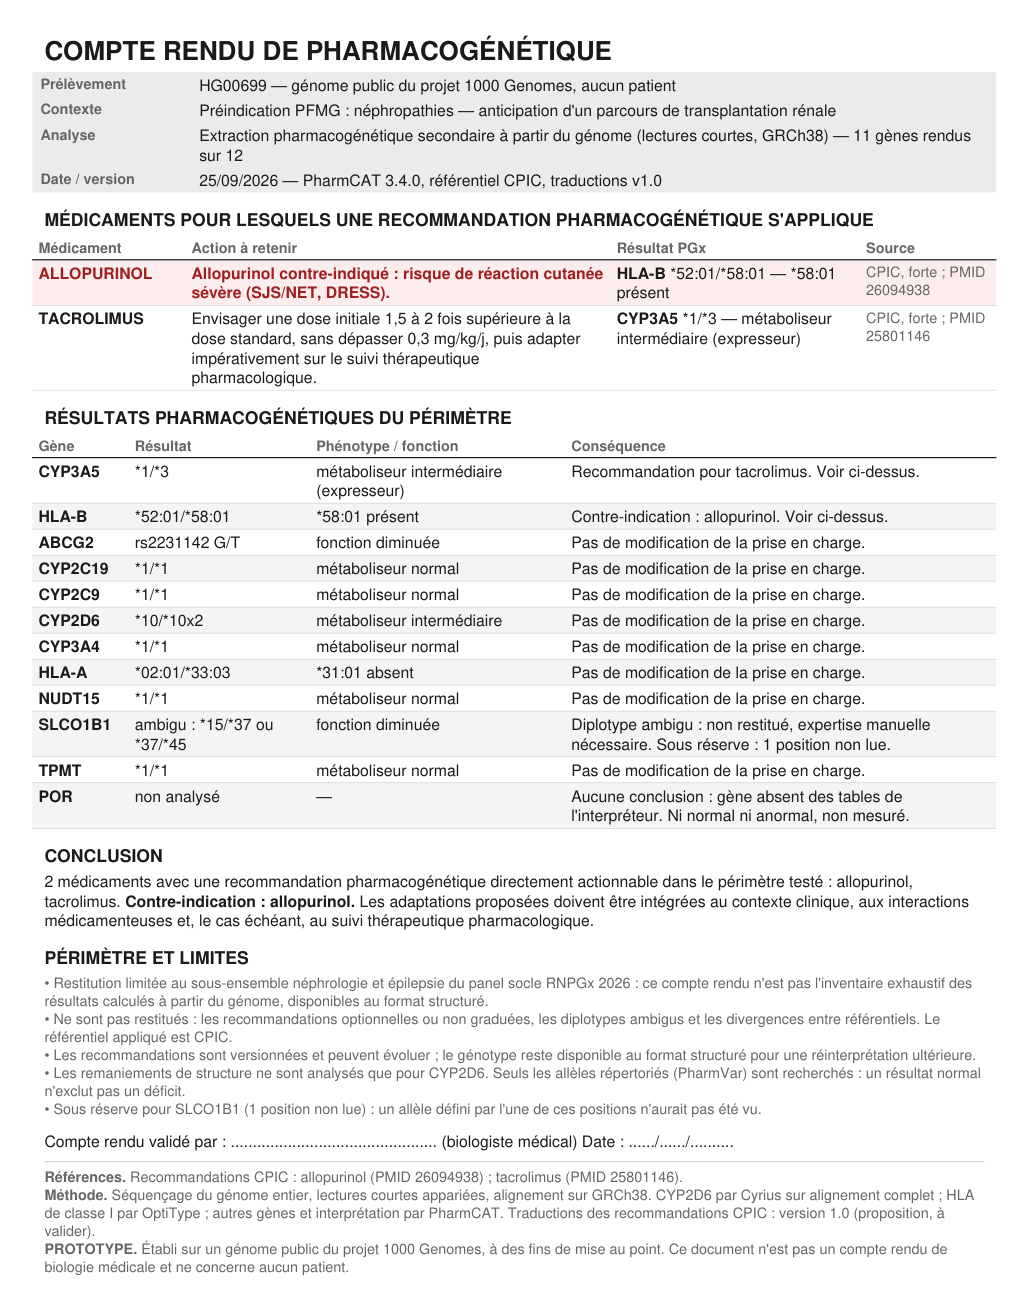
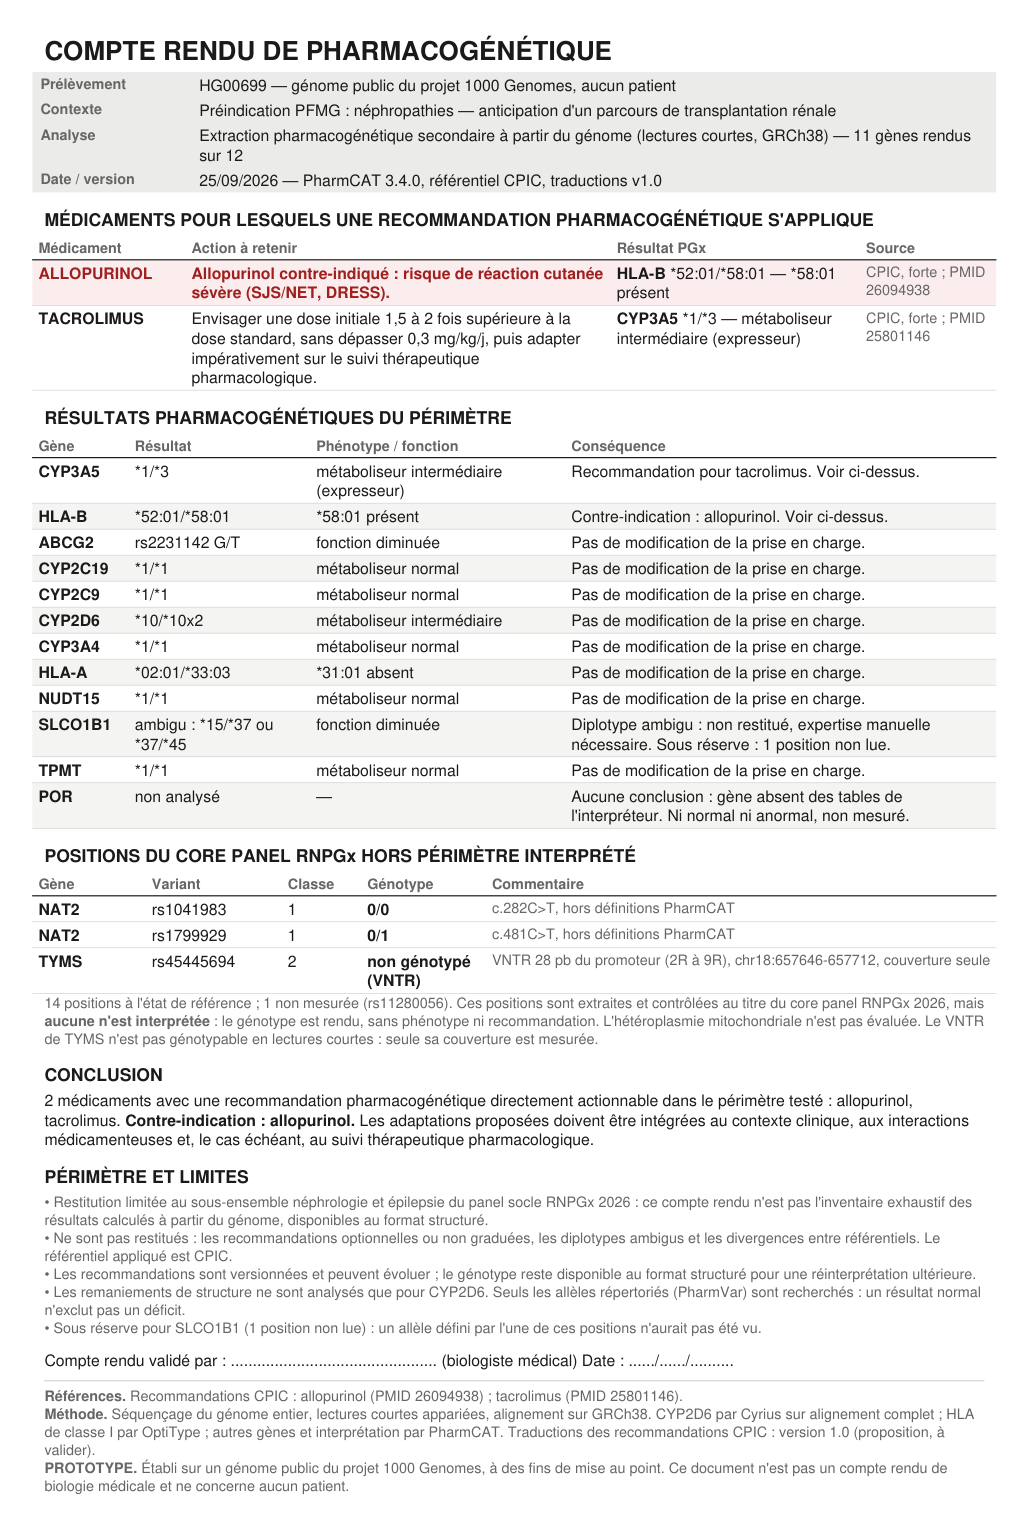
Perimetre : 18 positions de classe 1 et 2 du core panel RNPGx
Couverture classe 1 : 59/68 -> 68/68 ; classe 2 : 52/61 -> 61/61.
Neuf genes concernes : BCHE, MT-RNR1, NAT2, VKORC1, cluster CYP2C, GGCX,
MTHFR, POR, TYMS.

- ressources/rnpgx_complement.{vcf,bed} + outils/construire_complement_rnpgx.py
  (genere, reproductible). Coordonnees GRCh38 via Ensembl, chaque allele de
  reference verifie contre GRCh38 (bcftools norm --check-ref)
- mesurees au meme titre que les positions PharmCAT (profondeur, qualite,
  filtre) mais suivies a part : elles n entrent pas dans le statut d un gene et
  ne sont jamais masquees dans le VCF remis a l interpreteur
- aucune n est interpretee : genotype rendu, sans phenotype ni recommandation
- VNTR de TYMS en couverture seule, jamais genotype en lectures courtes ;
  heteroplasmie mitochondriale declaree non evaluee
- BED de tranche filtre sur les contigs presents : un chrM absent donne une
  position « profondeur inconnue », jamais un faux « reference »
- .gitignore : exception elargie au dossier ressources/

Non-regression verifiee sur les 243 genomes du banc : perimetre des 12 genes,
statut de chaque gene et VCF de l interpreteur strictement identiques.

Changed region(s): [[0.0311, 0.0, 0.964, 0.9778], [0.8397, 0.0611, 0.9329, 0.1222]]

diff --git a/bin/qc_perimetre.py b/bin/qc_perimetre.py
@@ -32,17 +32,32 @@ Sorties :
 import argparse, collections, csv, gzip, json, os, sys
 
 
-def lire_positions(chemin):
+def lire_positions(chemin, complement=False):
+    """Positions diagnostiques attendues, depuis un VCF de positions.
+
+    Le fichier complementaire du core panel RNPGx porte en plus PXCLASSE (1 ou 2),
+    PXTYPE (snv, indel, vntr), PXINTERP et PXNOTE. Un VNTR n'est pas genotypable en
+    lectures courtes : sa couverture est mesuree, son genotype n'est pas juge.
+    """
     attendu = {}
     with open(chemin, encoding="utf-8") as fh:
         for l in fh:
             if l.startswith("#"):
                 continue
             c = l.rstrip("\n").split("\t")
-            genes = [x[3:] for x in c[7].split(";") if x.startswith("PX=")]
+            info = {}
+            for x in c[7].split(";"):
+                k, _, v = x.partition("=")
+                info[k] = v
             attendu[(c[0], int(c[1]))] = {
                 "rsid": c[2], "ref": c[3], "alt": c[4],
-                "genes": genes[0].split(",") if genes else [],
+                "genes": info.get("PX", "").split(",") if info.get("PX") else [],
+                "complement": complement,
+                "classe": entier(info.get("PXCLASSE")),
+                "type": info.get("PXTYPE", "snv"),
+                "interpreteur": info.get("PXINTERP", "pharmcat"),
+                "note": info.get("PXNOTE", "").replace("_", " "),
+                "fin": entier(info.get("END")) or int(c[1]) + len(c[3]) - 1,
             }
     return attendu
 
@@ -150,6 +165,8 @@ def main():
     p.add_argument("--vcf", required=True)
     p.add_argument("--profondeur", default=None)
     p.add_argument("--positions", required=True)
+    p.add_argument("--positions-complement", default=None, dest="complement",
+                   help="VCF des positions RNPGx absentes des definitions PharmCAT")
     p.add_argument("--sortie", required=True)
     p.add_argument("--gq", type=int, default=20)
     p.add_argument("--profondeur-min", type=int, default=10, dest="prof_min")
@@ -165,6 +182,19 @@ def main():
     if not attendu:
         print("fichier de positions vide ou illisible :", a.positions, file=sys.stderr)
         return 1
+    if a.complement:
+        if not os.path.exists(a.complement):
+            print("fichier complementaire introuvable :", a.complement, file=sys.stderr)
+            return 1
+        comp = lire_positions(a.complement, complement=True)
+        if not comp:
+            print("fichier complementaire vide :", a.complement, file=sys.stderr)
+            return 1
+        # une position deja suivie par PharmCAT reste sous son propre regime
+        doublons = sorted(set(comp) & set(attendu))
+        attendu.update({k: v for k, v in comp.items() if k not in attendu})
+        if doublons:
+            print("positions complementaires deja suivies, ignorees : %d" % len(doublons))
     clinique = set()
     if a.clinique and os.path.exists(a.clinique):
         clinique = set(json.load(open(a.clinique, encoding="utf-8")).get("genes", {}))
@@ -178,7 +208,7 @@ def main():
               file=sys.stderr)
         return 1
 
-    lignes_qc = []
+    lignes_qc, complement_qc = [], []
     par_gene = collections.defaultdict(collections.Counter)
     a_masquer = set()
     sans_gq = 0
@@ -208,7 +238,12 @@ def main():
         part = None if gene_sans_equilibre else (
             part_minimale(gt, ad) if gt and appele(gt) else None)
 
-        if gt is None:
+        if info.get("type") == "vntr":
+            # Un VNTR ne se genotype pas en lectures courtes : on mesure sa couverture
+            # et on s'arrete la. Le pretendre appele serait un resultat invente.
+            statut = ("couverture seule" if profondeur is not None and profondeur >= a.prof_min
+                      else ("non lue" if profondeur is not None else "profondeur inconnue"))
+        elif gt is None:
             if profondeur is not None and profondeur >= a.prof_min:
                 statut = "reference, lue"
             elif profondeur is not None:
@@ -242,7 +277,7 @@ def main():
         else:
             statut = "mesuree"
 
-        retenue = statut in ("mesuree", "reference, lue")
+        retenue = statut in ("mesuree", "reference, lue", "couverture seule")
         lignes_qc.append({
             "chrom": cle[0], "pos": cle[1], "rsid": info["rsid"],
             "ref": info["ref"], "alt": info["alt"], "genes": ",".join(info["genes"]),
@@ -251,11 +286,32 @@ def main():
             "profondeur_alignement": "" if lu is None else lu,
             "profondeur_VCF": "" if dp is None else dp,
             "statut": statut, "retenue": "oui" if retenue else "non",
+            "source": "RNPGx" if info.get("complement") else "PharmCAT",
+            "classe_rnpgx": info.get("classe") or "",
         })
-        for g in info["genes"]:
-            par_gene[g]["attendu"] += 1
-            par_gene[g]["retenue" if retenue else "perdue"] += 1
-            par_gene[g][statut] += 1
+        if info.get("complement"):
+            genotype_rendu = ("non génotypé (VNTR)" if info.get("type") == "vntr"
+                              else (gt if retenue and gt else ("référence" if statut == "reference, lue" else "")))
+            complement_qc.append({
+                "gene": info["genes"][0] if info["genes"] else "", "rsid": info["rsid"],
+                "chrom": cle[0], "pos": cle[1], "classe": info.get("classe"),
+                "type": info.get("type"), "interpreteur": info.get("interpreteur"),
+                "genotype": genotype_rendu, "statut": statut,
+                "profondeur": "" if profondeur is None else profondeur, "note": info.get("note", ""),
+            })
+        # Le statut d'un gene ne compte que les positions dont l'interpreteur se sert.
+        # Une position complementaire ratee ne doit pas faire passer le gene en
+        # « partiel » : elle est suivie a part, dans complement_rnpgx.
+        if not info.get("complement"):
+            for g in info["genes"]:
+                par_gene[g]["attendu"] += 1
+                par_gene[g]["retenue" if retenue else "perdue"] += 1
+                par_gene[g][statut] += 1
+
+    # Une position complementaire n'est pas utilisee par l'interpreteur : la masquer
+    # ne changerait rien a son appel, mais modifierait son entree. On la laisse donc
+    # intacte, et le VCF qualifie reste identique a ce qu'il serait sans complement.
+    a_masquer -= {c for c in a_masquer if attendu[c].get("complement")}
 
     with open(os.path.join(a.sortie, "qc_positions.tsv"), "w", newline="\n", encoding="utf-8") as fh:
         w = csv.DictWriter(fh, fieldnames=list(lignes_qc[0].keys()), delimiter="\t")
@@ -277,14 +333,22 @@ def main():
         "echantillon": a.echantillon,
         "seuil_GQ": a.gq,
         "seuil_profondeur": a.prof_min,
-        "positions_visees": len(attendu),
-        "positions_retenues": sum(1 for x in lignes_qc if x["retenue"] == "oui"),
+        "positions_visees": sum(1 for x in lignes_qc if x["source"] == "PharmCAT"),
+        "positions_retenues": sum(1 for x in lignes_qc if x["source"] == "PharmCAT" and x["retenue"] == "oui"),
+        "positions_visees_toutes": len(attendu),
         "positions_sans_GQ": sans_gq,
         "positions_a_plusieurs_enregistrements": sum(1 for x in lignes_qc if x["enregistrements"] > 1),
         "profondeur_lue_depuis_alignement": True,
         "perimetre_clinique": sorted(clinique) if clinique else [],
         "perimetre_clinique_hors_interpreteur": sorted(clinique - set(perimetre)) if clinique else [],
         "genes": perimetre,
+        "complement_rnpgx": sorted(complement_qc, key=lambda x: (x["gene"], x["pos"])),
+        "complement_rnpgx_resume": {
+            "positions": len(complement_qc),
+            "retenues": sum(1 for x in complement_qc if x["statut"] in ("mesuree", "reference, lue", "couverture seule")),
+            "classe_1": sum(1 for x in complement_qc if x["classe"] == 1),
+            "classe_2": sum(1 for x in complement_qc if x["classe"] == 2),
+        } if complement_qc else None,
     }
     with open(os.path.join(a.sortie, "perimetre.json"), "w", encoding="utf-8") as fh:
         json.dump(meta, fh, ensure_ascii=False, indent=1)

diff --git a/outils/construire_complement_rnpgx.py b/outils/construire_complement_rnpgx.py
@@ -1,0 +1,99 @@
+# -*- coding: utf-8 -*-
+"""Construit ressources/rnpgx_complement.{vcf,bed} : les positions de classe 1 et 2
+du core panel RNPGx 2026 absentes des definitions PharmCAT.
+
+Coordonnees GRCh38 depuis Ensembl, chaque allele de reference verifie contre le
+FASTA GRCh38 avant publication (bcftools norm --check-ref). Provenance distincte
+de pharmcat_positions.* (MPL, derive de PharmCAT).
+
+Usage : python3 outils/construire_complement_rnpgx.py [dossier_ressources]
+"""
+import os, sys, collections
+
+RES = sys.argv[1] if len(sys.argv) > 1 else os.path.join(
+    os.path.dirname(os.path.dirname(os.path.abspath(__file__))), "ressources")
+PAD = 50   # meme marge que pharmcat_positions.bed
+
+# (gene, rsid, chrom, pos, ref, alt, classe, type, interpreteur, note)
+P = [
+ ("BCHE", "rs1799807", "chr3", 165830741, "T", "C", 1, "snv", "aucun", "p.Asp70Gly, allèle atypique"),
+ ("BCHE", "rs1803274", "chr3", 165773492, "C", "T", 1, "snv", "aucun", "p.Ala539Thr, variante K"),
+ ("MT-RNR1", "rs267606618", "chrM", 1095, "T", "C", 1, "snv", "aucun", "m.1095T>C, surdité sous aminoside"),
+ ("MT-RNR1", "rs267606619", "chrM", 1494, "C", "T", 1, "snv", "aucun", "m.1494C>T, surdité sous aminoside"),
+ ("MT-RNR1", "rs267606617", "chrM", 1555, "A", "G", 1, "snv", "aucun", "m.1555A>G, surdité sous aminoside"),
+ ("NAT2", "rs1041983", "chr8", 18400285, "C", "T", 1, "snv", "pharmcat", "c.282C>T, hors définitions PharmCAT"),
+ ("NAT2", "rs72554616", "chr8", 18400437, "A", "C", 1, "snv", "pharmcat", "c.434A>C, hors définitions PharmCAT"),
+ ("NAT2", "rs1799929", "chr8", 18400484, "C", "T", 1, "snv", "pharmcat", "c.481C>T, hors définitions PharmCAT"),
+ ("VKORC1", "rs9934438", "chr16", 31093557, "G", "A,C", 1, "snv", "pharmcat", "intron 1 (1173C>T), hors définitions PharmCAT"),
+ ("CYP2C_cluster", "rs11188059", "chr10", 94709142, "G", "A", 2, "snv", "aucun", "haplotype CYP2C:TG, phasage nécessaire si utilisé"),
+ ("CYP2C_cluster", "rs2860840", "chr10", 94735475, "C", "T", 2, "snv", "aucun", "haplotype CYP2C:TG, phasage nécessaire si utilisé"),
+ ("GGCX", "rs11676382", "chr2", 85550510, "C", "G", 2, "snv", "aucun", "modulateur de la dose d'AVK"),
+ ("MTHFR", "rs1801131", "chr1", 11794419, "T", "G", 2, "snv", "aucun", "p.Glu429Ala (A1298C)"),
+ ("MTHFR", "rs1801133", "chr1", 11796321, "G", "A,C", 2, "snv", "aucun", "p.Ala222Val (C677T)"),
+ ("POR", "rs1057868", "chr7", 75985688, "C", "T", 2, "snv", "aucun", "POR*28, gène absent des tables de l'interpréteur"),
+ ("TYMS", "rs45445694", "chr18", 657646, "C", "<VNTR>", 2, "vntr", "aucun",
+  "VNTR 28 pb du promoteur (2R à 9R), chr18:657646-657712, couverture seule"),
+ ("TYMS", "rs2853542", "chr18", 657685, "G", "A,C,T", 2, "snv", "aucun",
+  "situé dans le VNTR, appel peu fiable en lectures courtes"),
+ ("TYMS", "rs11280056", "chr18", 673444, "TTAAAGTTA", "TTA,TTAAAGTTAAAGTTA", 2, "indel", "aucun",
+  "indel 6 pb du 3'UTR, la représentation peut différer selon l'appelant"),
+]
+FIN = {"rs45445694": 657712, "rs11280056": 673452}   # borne droite des evenements multi-bases
+
+P.sort(key=lambda x: (x[2].replace("chrM", "chrZZ"), x[3]))
+contigs = sorted({x[2] for x in P}, key=lambda c: (c == "chrM", c))
+
+with open(os.path.join(RES, "rnpgx_complement.vcf"), "w", newline="\n", encoding="utf-8") as fh:
+    fh.write("##fileformat=VCFv4.2\n")
+    fh.write("##source=Core panel RNPGx 2026 (Picard N. et coll., PMID 41491663, Table 2), "
+             "positions de classe 1 et 2 absentes des definitions PharmCAT\n")
+    fh.write("##reference=GRCh38\n")
+    fh.write("##note=Coordonnees GRCh38 via Ensembl ; allele de reference verifie contre "
+             "GRCh38_full_analysis_set_plus_decoy_hla.fa\n")
+    for c in contigs:
+        fh.write(f'##contig=<ID={c},assembly=GRCh38>\n')
+    fh.write('##INFO=<ID=PX,Number=.,Type=String,Description="Gene">\n')
+    fh.write('##INFO=<ID=PXCLASSE,Number=1,Type=Integer,Description="Classe d actionnabilite RNPGx : 1 ou 2">\n')
+    fh.write('##INFO=<ID=PXTYPE,Number=1,Type=String,Description="snv, indel ou vntr">\n')
+    fh.write('##INFO=<ID=PXINTERP,Number=1,Type=String,Description="pharmcat si le gene est interprete mais pas cette position ; aucun sinon">\n')
+    fh.write('##INFO=<ID=PXNOTE,Number=1,Type=String,Description="Commentaire">\n')
+    fh.write('##INFO=<ID=END,Number=1,Type=Integer,Description="Borne droite des evenements multi-bases">\n')
+    fh.write('##FORMAT=<ID=GT,Number=1,Type=String,Description="Genotype">\n')
+    fh.write("#CHROM\tPOS\tID\tREF\tALT\tQUAL\tFILTER\tINFO\tFORMAT\tRNPGx\n")
+    for g, rs, ch, pos, ref, alt, cl, ty, it, note in P:
+        info = f"PX={g};PXCLASSE={cl};PXTYPE={ty};PXINTERP={it}"
+        if rs in FIN:
+            info += f";END={FIN[rs]}"
+        # INFO n'admet ni espace, ni ';', ni '=' : on encode
+        propre = note.replace(";", ",").replace("=", "-").replace(" ", "_")
+        info += f";PXNOTE={propre}"
+        fh.write(f"{ch}\t{pos}\t{rs}\t{ref}\t{alt}\t.\tPASS\t{info}\tGT\t0/0\n")
+
+# BED des positions exactes (span complet pour indel et VNTR) et BED des regions +-50 pb
+exact, reg = [], []
+for g, rs, ch, pos, ref, alt, cl, ty, it, note in P:
+    fin = FIN.get(rs, pos + len(ref) - 1)
+    exact.append((ch, pos - 1, fin))
+    reg.append((ch, max(0, pos - 1 - PAD), fin + PAD))
+
+
+def fusionne(iv):
+    out = []
+    for ch, s, e in sorted(iv):
+        if out and out[-1][0] == ch and s <= out[-1][2]:
+            out[-1][2] = max(out[-1][2], e)
+        else:
+            out.append([ch, s, e])
+    return out
+
+
+for nom, iv in (("rnpgx_complement_positions.bed", exact), ("rnpgx_complement.bed", fusionne(reg))):
+    with open(os.path.join(RES, nom), "w", newline="\n", encoding="utf-8") as fh:
+        for ch, s, e in (iv if nom.endswith("_positions.bed") else iv):
+            fh.write(f"{ch}\t{s}\t{e}\n")
+
+par_gene = collections.Counter(x[0] for x in P)
+print("positions :", len(P), "| genes :", len(par_gene), dict(par_gene))
+print("classe 1 :", sum(1 for x in P if x[6] == 1), "| classe 2 :", sum(1 for x in P if x[6] == 2))
+print("regions BED :", len(fusionne(reg)), "| pb couvertes :", sum(e - s for _, s, e in fusionne(reg)))
+print("contigs :", contigs)

diff --git a/bin/compte_rendu.py b/bin/compte_rendu.py
@@ -47,7 +47,8 @@ def _perimetre(rapport):
       partiel  au moins une position non lue           -> rendu avec reserve
       absent   aucune position lue, ou aucun diplotype -> non rendu
     Les genes venus d'un outil dedie (Cyrius, OptiType) ont le perimetre de cet outil."""
-    meta = json.load(open(_a.perimetre, encoding="utf-8"))
+    global META
+    META = meta = json.load(open(_a.perimetre, encoding="utf-8"))
     qc = meta.get("genes", {})
     clinique = set(meta.get("perimetre_clinique") or [])
     hors_interpreteur = list(meta.get("perimetre_clinique_hors_interpreteur") or [])
@@ -75,9 +76,11 @@ def _perimetre(rapport):
     return sorted(rendus), sorted(absents), reserves
 
 
+META = {}
 rep = json.load(open(SRC, encoding="utf-8"))
 genes = rep["genes"]
 MESURES, ABSENTS, RESERVES = _perimetre(rep)
+COMPLEMENT = META.get("complement_rnpgx") or []
 
 # ------------------------------------------------------------------ libelles
 PHENO_FR = {
@@ -327,6 +330,32 @@ for g, motif in ABSENTS:
     rows.append([Paragraph(g, st_gras), Paragraph("non analysé", st_corps), Paragraph("—", st_corps),
                  Paragraph(f"Aucune conclusion : {e_(motif)}. Ni normal ni anormal, non mesuré.", st_corps)])
 h.append(tableau(rows, [17, 32, 45, 76], {i: FOND_G for i in range(2, len(rows), 2)}))
+
+# --- 2 bis. positions du core panel RNPGx hors definitions de l'interpreteur
+# Elles sont mesurees pour repondre a l'exigence d'extraction des ROI, mais aucune
+# n'est interpretee : on rend le genotype, jamais un phenotype.
+if COMPLEMENT:
+    ref = [x for x in COMPLEMENT if x["genotype"] == "référence"]
+    var = [x for x in COMPLEMENT if x not in ref and x["statut"] in ("mesuree", "couverture seule")]
+    perdu = [x for x in COMPLEMENT if x["statut"] not in ("mesuree", "reference, lue", "couverture seule")]
+    h.append(Paragraph("POSITIONS DU CORE PANEL RNPGx HORS PÉRIMÈTRE INTERPRÉTÉ", st_section))
+    if var:
+        rows = [[Paragraph(x, st_tete) for x in ("Gène", "Variant", "Classe", "Génotype", "Commentaire")]]
+        for x in sorted(var, key=lambda x: (x["classe"] or 9, x["gene"])):
+            rows.append([Paragraph(f"<b>{e_(x['gene'])}</b>", st_gras), Paragraph(e_(x["rsid"]), st_corps),
+                         Paragraph(str(x["classe"] or "—"), st_corps), Paragraph(e_(x["genotype"]), st_gras),
+                         Paragraph(e_(x["note"]), st_petit)])
+        h.append(tableau(rows, [20, 24, 14, 22, 90]))
+    resume = (f"{len(ref)} position{'s' if len(ref) > 1 else ''} à l'état de référence"
+              if ref else "") + (" ; " if ref and perdu else "") + (
+              f"{len(perdu)} non mesurée{'s' if len(perdu) > 1 else ''} "
+              + "(" + ", ".join(sorted({x['rsid'] for x in perdu})) + ")" if perdu else "")
+    h.append(Paragraph(
+        (resume + ". " if resume else "")
+        + "Ces positions sont extraites et contrôlées au titre du core panel RNPGx 2026, mais "
+          "<b>aucune n'est interprétée</b> : le génotype est rendu, sans phénotype ni recommandation. "
+        + ("L'hétéroplasmie mitochondriale n'est pas évaluée. " if any(x["gene"] == "MT-RNR1" for x in COMPLEMENT) else "")
+        + "Le VNTR de TYMS n'est pas génotypable en lectures courtes : seule sa couverture est mesurée.", st_petit))
 
 # --- 3. conclusion
 h.append(Paragraph("CONCLUSION", st_section))

diff --git a/doc/MODE_EMPLOI.md b/doc/MODE_EMPLOI.md
@@ -150,6 +150,12 @@ externes. **Aucun repli** : si le fichier qualifié est absent, l'étage échoue
 Se rabattre sur le fichier filtré remettrait en service les génotypes écartés sur
 leur qualité, et la garantie du module disparaîtrait sans une ligne de trace.
 
+**2b bis. Complément RNPGx.** Les 18 positions de classe 1 et 2 du core panel absentes
+des définitions PharmCAT sont mesurées au même titre (profondeur, qualité, filtre),
+mais suivies à part dans `perimetre.json` → `complement_rnpgx`. Elles n'entrent pas
+dans le statut d'un gène et ne sont jamais masquées dans le VCF de l'interpréteur.
+Un VNTR n'est pas génotypé : seule sa couverture est mesurée.
+
 **7. Compte rendu.** Structuré selon le cahier des charges du POC PFMG : médicaments
 concernés d'abord, puis résultats par gène, conclusion, périmètre et limites. Seules
 les recommandations CPIC fortes ou modérées qui modifient la prise en charge sont

diff --git a/README.md b/README.md
@@ -24,6 +24,13 @@ CYP2C9, CYP2C19, CYP2D6, CYP3A4, CYP3A5, SLCO1B1, TPMT, NUDT15, ABCG2, et HLA-A,
 HLA-B. POR est dans le périmètre mais l'interpréteur ne le couvre pas ; il sort
 « non analysé ».
 
+**Positions complémentaires du core panel.** 18 positions de classe 1 et 2 du core
+panel RNPGx 2026 sont absentes des définitions de l'interpréteur : BCHE, MT-RNR1,
+MTHFR, GGCX, TYMS, POR, le cluster CYP2C, et trois positions de NAT2 et VKORC1.
+Elles sont **extraites, contrôlées et rendues en génotype**, mais **aucune n'est
+interprétée** : pas de phénotype, pas de recommandation. Le VNTR de TYMS n'étant pas
+génotypable en lectures courtes, seule sa couverture est mesurée.
+
 Trois outils font le travail biologique, orchestrés par un script bash :
 
 | Étape | Outil |
